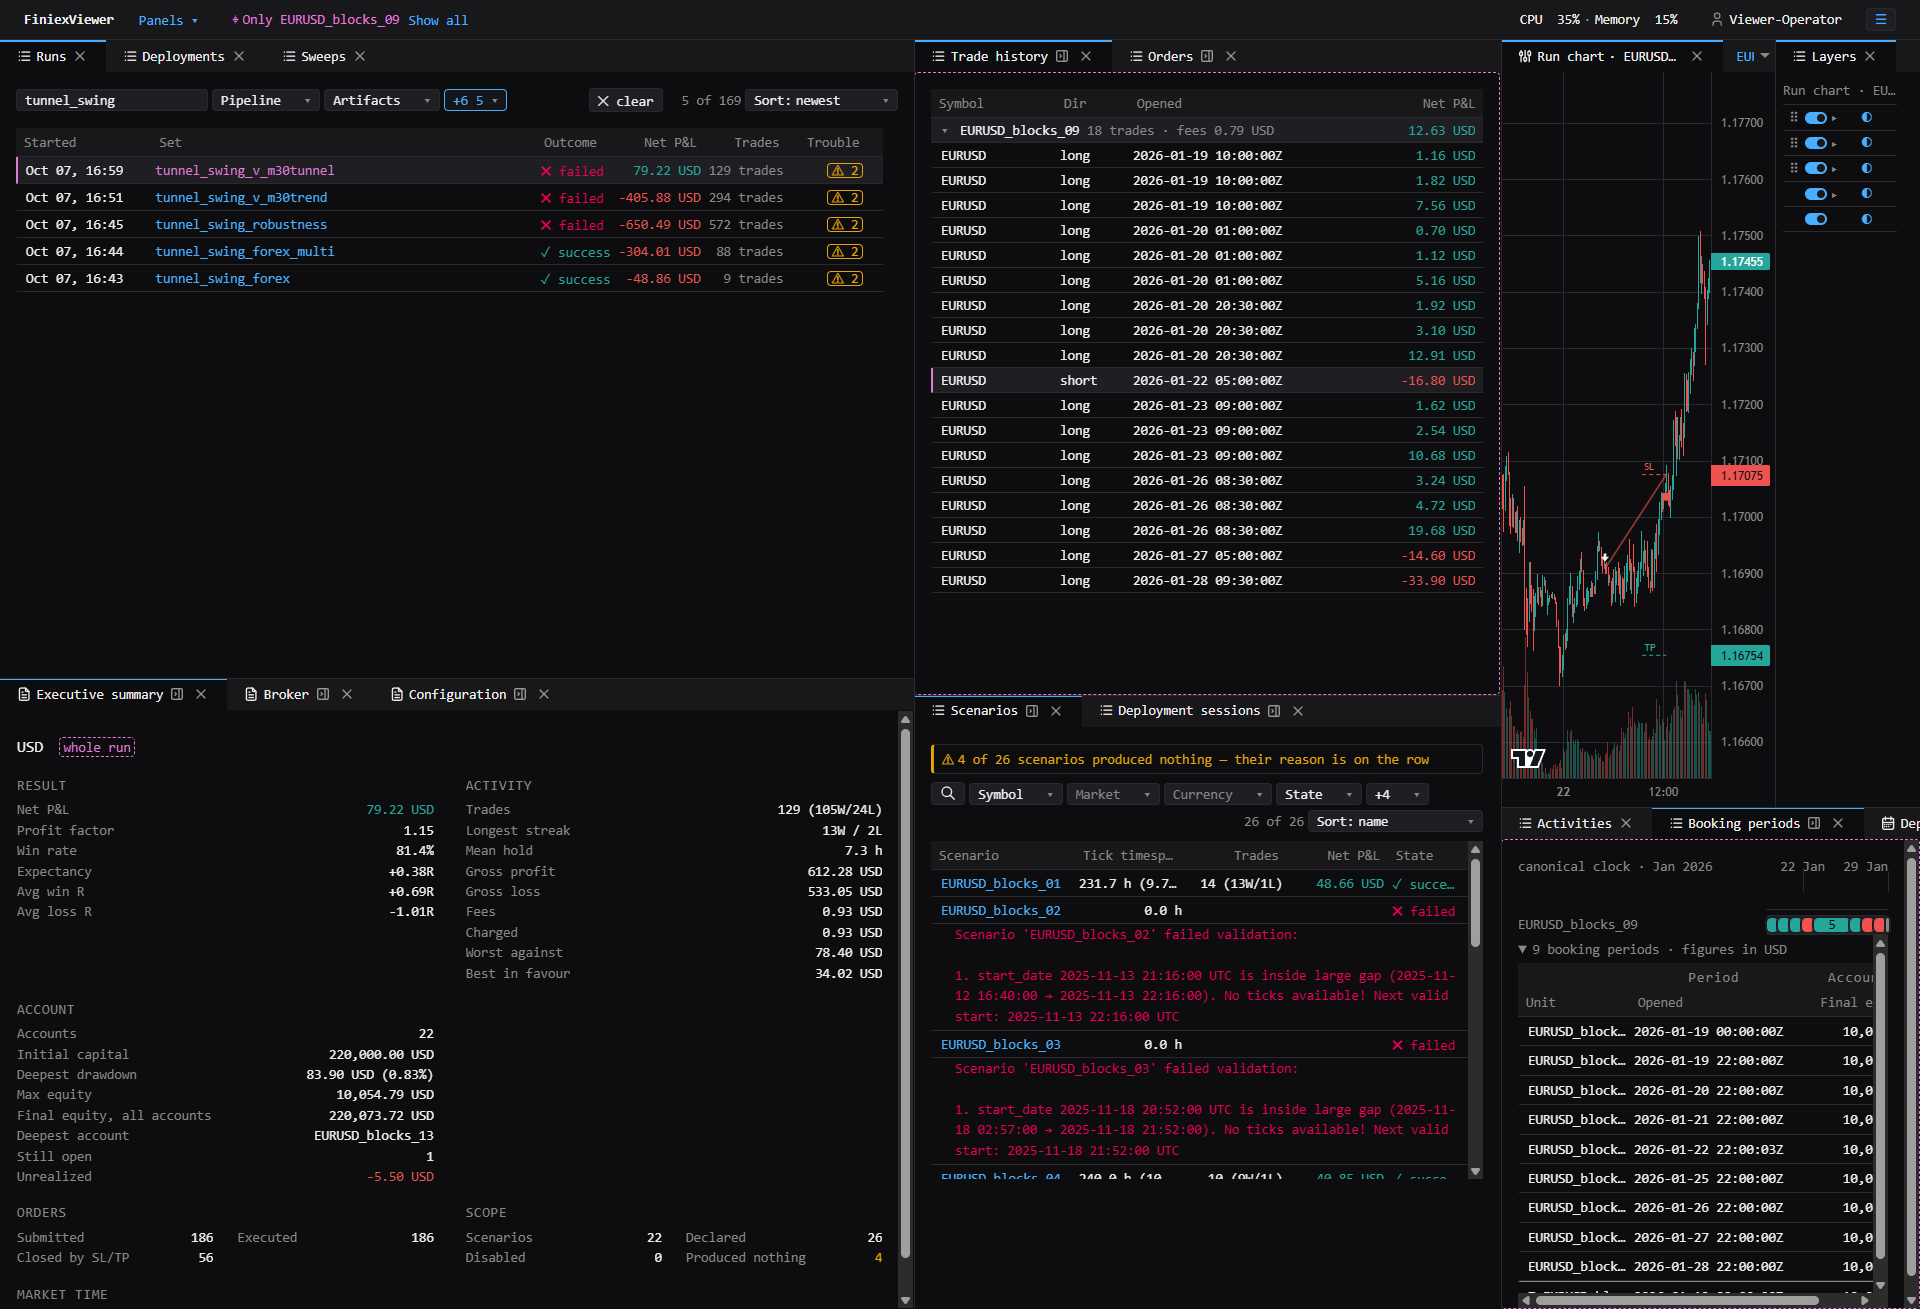
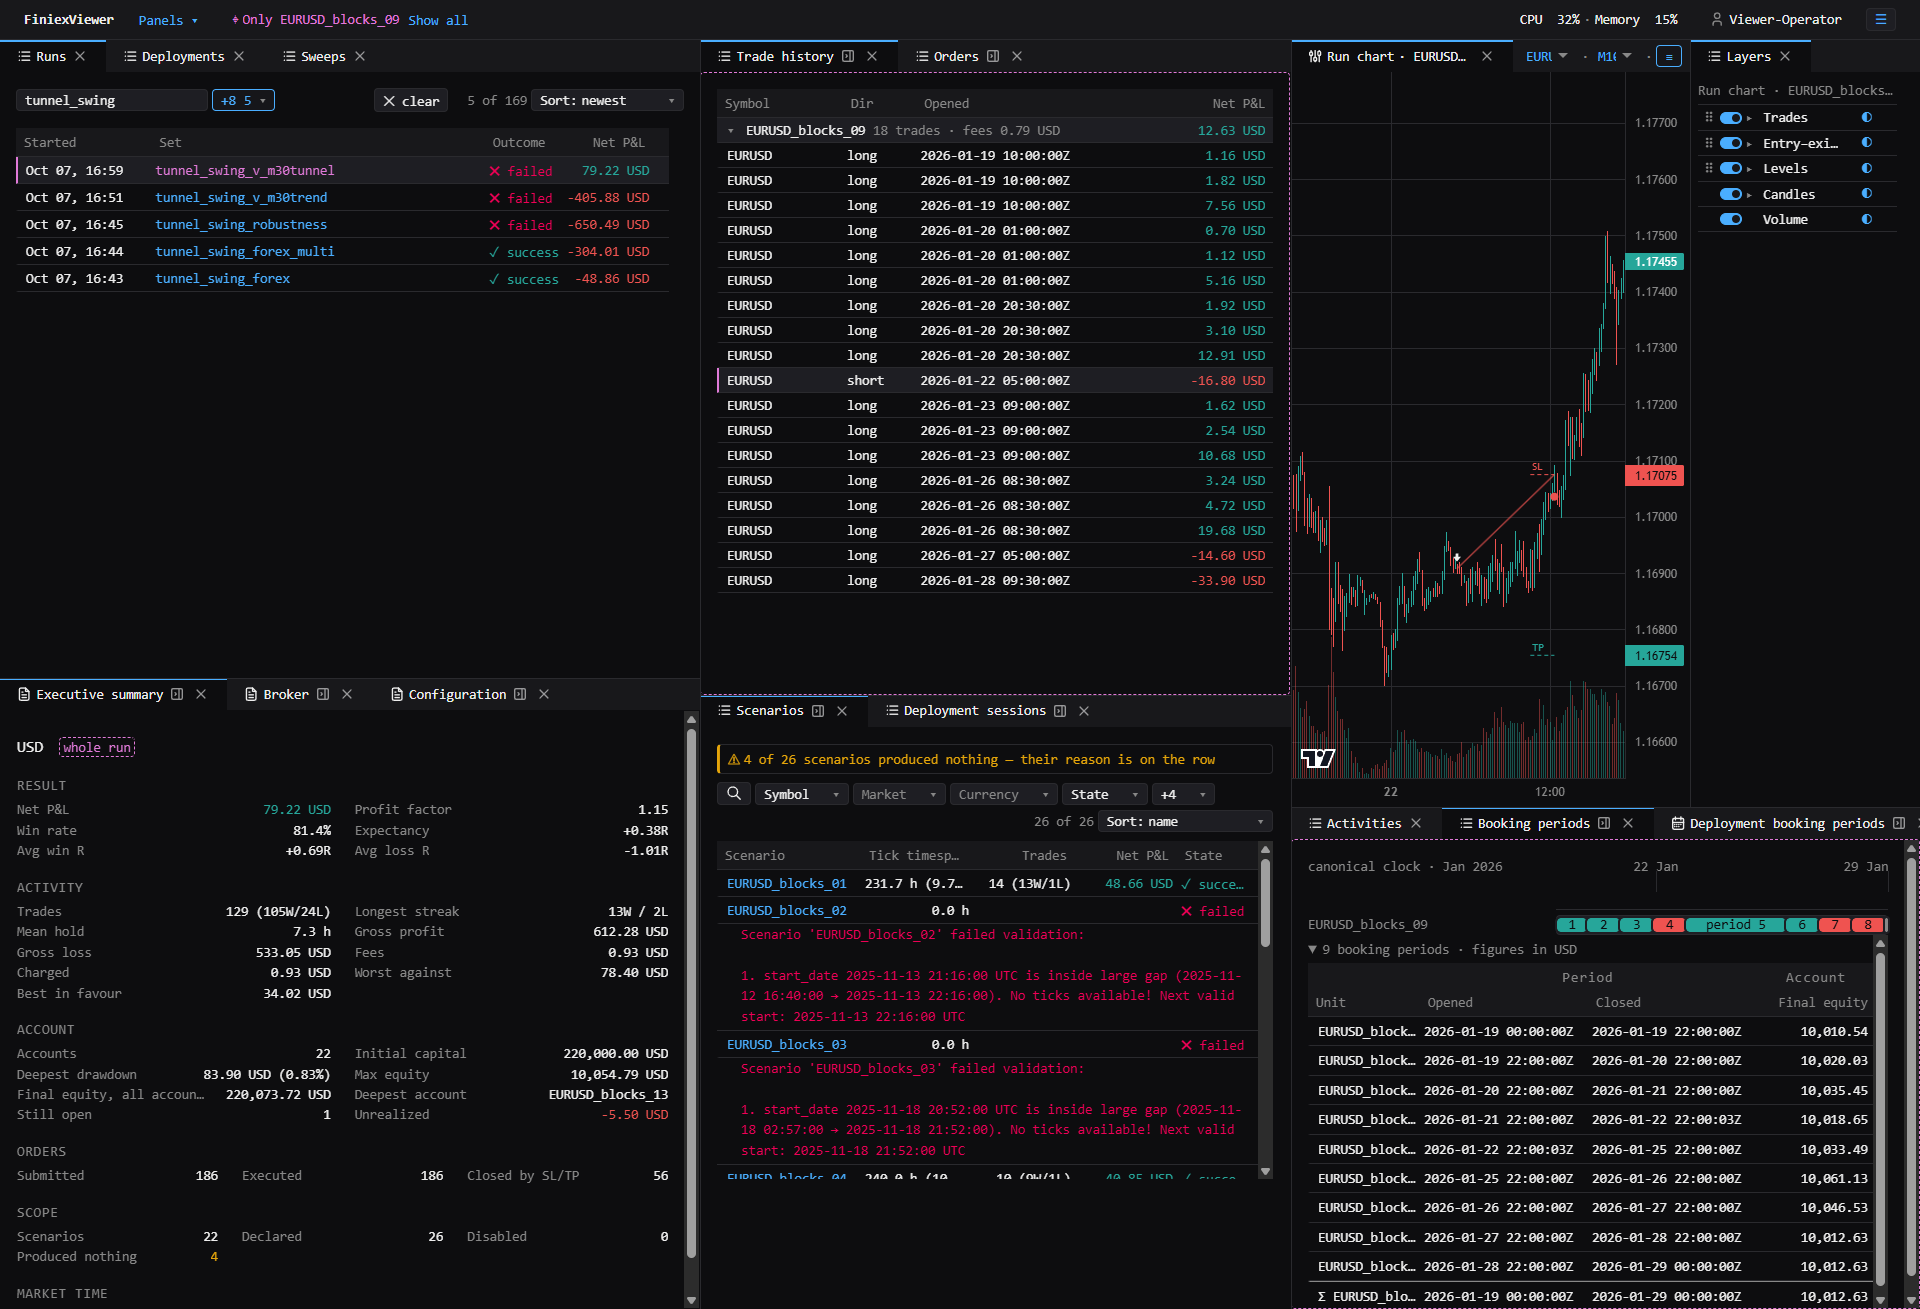
Give the run chart and its layers room in the workspace picture
The README's whole-window picture squeezed the run chart to about 200 px
and the Layers panel to 145 px, too narrow to show a layer's name. The
picture arrangement's columns now stand at 700, 590 and 630 px of the
1920: the middle column keeps every column of the trade history and the
scenarios, and the run list on the left gives its trade count and its
trouble badge way.

The sweep's cut-out keeps the earlier widths, where its win rate and
profit factor still fit.

diff --git a/e2e/readme_pictures.spec.ts b/e2e/readme_pictures.spec.ts
@@ -62,13 +62,21 @@ function scaled(node: GridNode, factor: number): GridNode {
   return node.size === undefined ? { ...node, data } : { ...node, data, size: node.size * factor }
 }
 
+/** The grid with its columns at `widths`, in the arrangement's own units. */
+function withColumns(root: GridNode, widths: number[]): GridNode {
+  return { ...root, data: (root.data as GridNode[]).map((column, i) => ({ ...column, size: widths[i] })) }
+}
+
 /**
  * Opens the app on the stored arrangement with `link` as its selection, the dock 1920 wide and as
  * tall as the arrangement's proportions ask: every panel keeps its share, each with more room. The
  * first load measures the menu bar; the second lays the dock out at its final size from the start.
+ * `columns` gives the columns other widths, for a cut-out that reads better than the whole window
+ * lets it.
  */
-async function arranged(page: Page, link: object, bars: ReturnType<typeof narrowed>): Promise<void> {
-  const { width, height, root } = ARRANGEMENT.dock.grid
+async function arranged(page: Page, link: object, bars: ReturnType<typeof narrowed>, columns?: number[]): Promise<void> {
+  const { width, height } = ARRANGEMENT.dock.grid
+  const root = columns ? withColumns(ARRANGEMENT.dock.grid.root, columns) : ARRANGEMENT.dock.grid.root
   const factor = 1920 / width
   const grid = { ...ARRANGEMENT.dock.grid, root: scaled(root, factor), width: 1920, height: Math.round(height * factor) }
   const stored = {
@@ -140,7 +148,8 @@ test('a deployment across its sessions', async ({ page }) => {
 
 test('a parameter search, ranked', async ({ page }) => {
   await prepare(page)
-  await arranged(page, { run: { id: RUN, units: [], position: null }, sweep: { id: SWEEP } }, narrowed('tunnel_swing'))
+  // the left column at 914 px: at the whole window's 700 the win rate and the profit factor give way
+  await arranged(page, { run: { id: RUN, units: [], position: null }, sweep: { id: SWEEP } }, narrowed('tunnel_swing'), [632, 405, 290])
   await showPanel(page, 'Sweeps')
   await page.locator('[data-panel-kind="sweeps"] .sweep-list .run-id').first().waitFor({ timeout: 30_000 })
   await settled(page)
